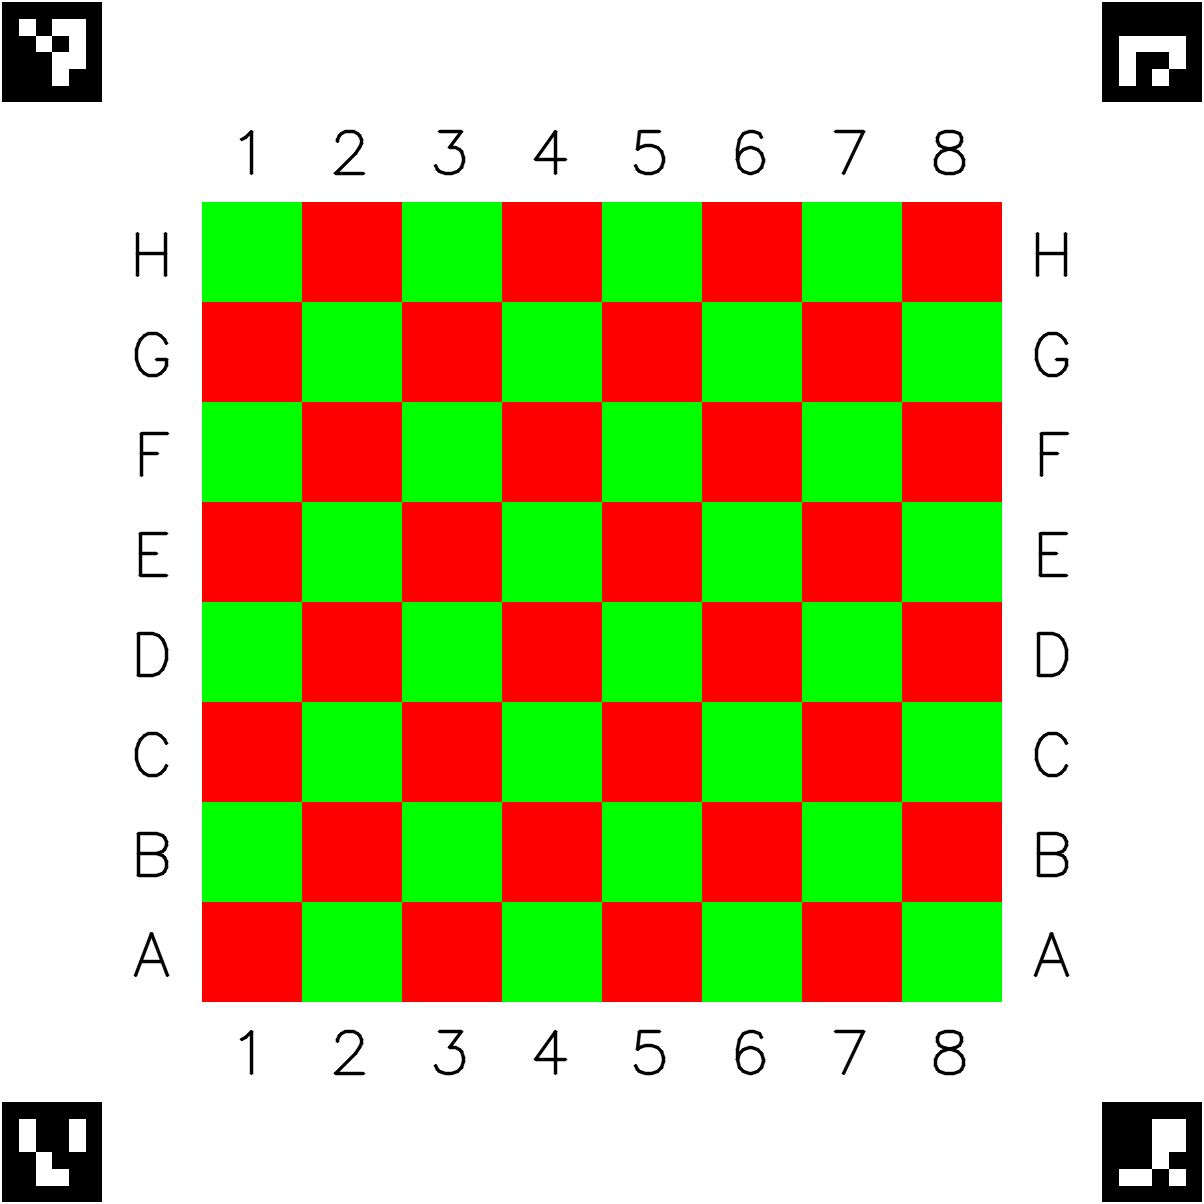
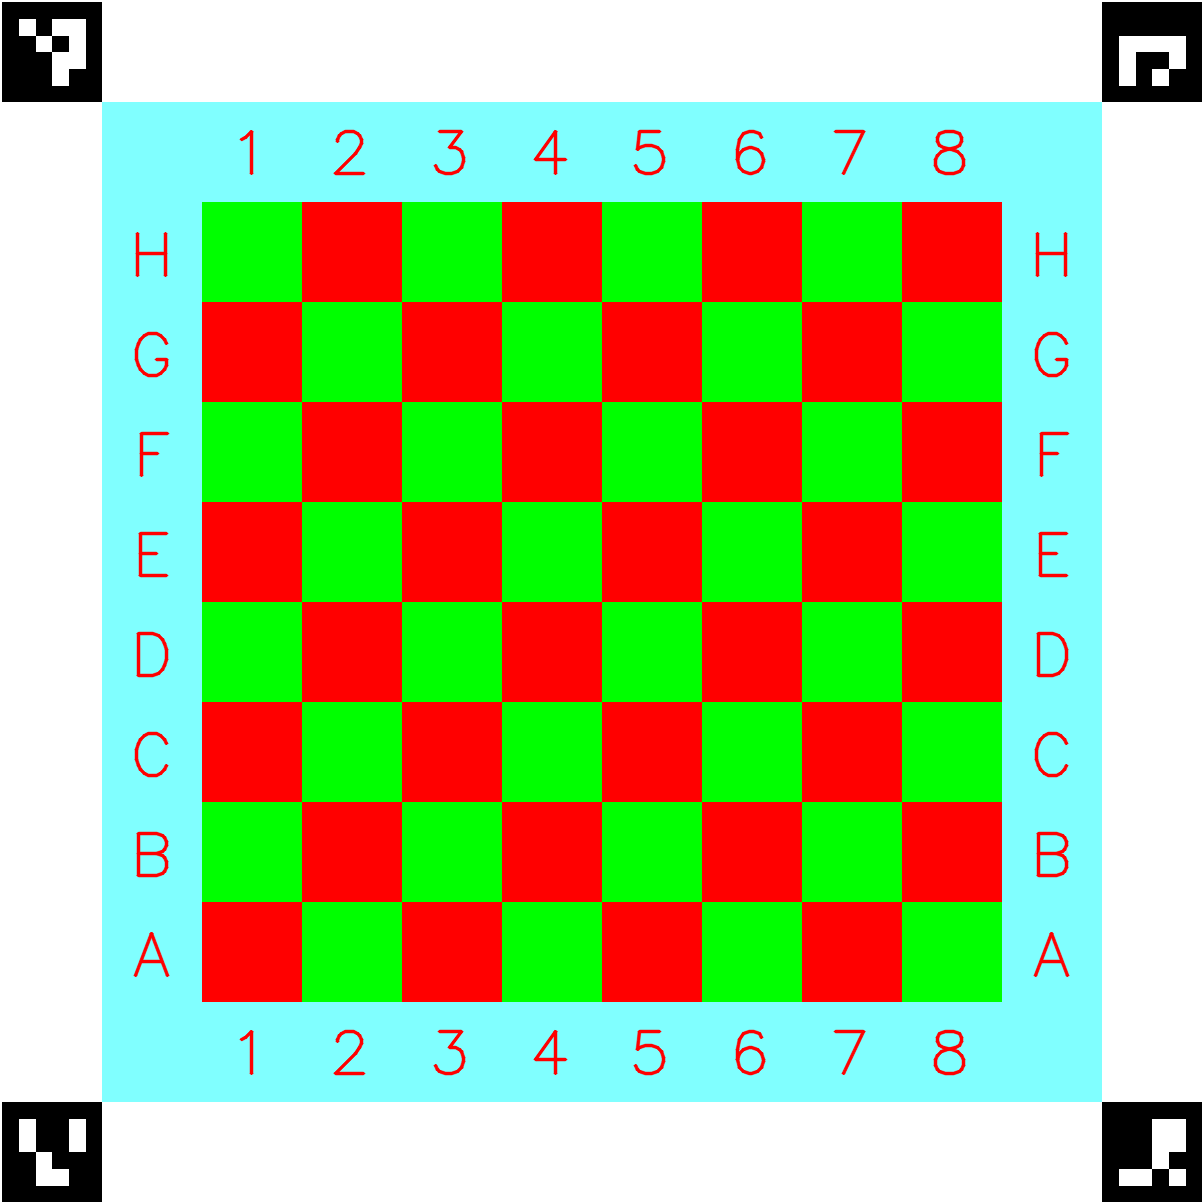
add background color for labels on chessboard
this makes it easier to separate the white pieces from the background.

Changed region(s): [[0.0615, 0.0615, 0.9219, 0.9219]]

diff --git a/board-generator/src/main.rs b/board-generator/src/main.rs
@@ -1,15 +1,18 @@
+use GeneratorError::{InvalidConfig, OpenCVError};
 use clap::Parser;
 use opencv::{
-    core::{Point2i, Rect2i, Scalar, CV_8UC3},
+    core::Size,
+    core::{CV_8UC3, Point2i, Rect2i, Scalar},
     highgui,
     imgcodecs::imwrite_def,
-    imgproc::{cvt_color_def, get_text_size, put_text, COLOR_GRAY2BGR, FONT_HERSHEY_SIMPLEX, LINE_AA},
+    imgproc::{
+        COLOR_GRAY2BGR, FONT_HERSHEY_SIMPLEX, INTER_LINEAR, LINE_AA, cvt_color_def, get_text_size,
+        put_text, resize,
+    },
     objdetect::PredefinedDictionaryType::DICT_4X4_50,
     prelude::*,
 };
 use std::fmt::{Display, Formatter};
-use GeneratorError::{InvalidConfig, OpenCVError};
-
 
 #[derive(Debug)]
 pub enum GeneratorError {
@@ -26,26 +29,29 @@ impl From<opencv::Error> for GeneratorError {
 impl Display for GeneratorError {
     fn fmt(&self, f: &mut Formatter<'_>) -> std::fmt::Result {
         match self {
-            OpenCVError(_) => writeln!(f, "OpenCV internal error"),
+            OpenCVError(_) => write!(f, "OpenCV internal error"),
             InvalidConfig => write!(f, "Invalid configuration specified"),
         }
     }
 }
 
-impl std::error::Error for GeneratorError {}
+impl std::error::Error for GeneratorError {
+    fn source(&self) -> Option<&(dyn std::error::Error + 'static)> {
+        match self {
+            OpenCVError(err) => Some(err),
+            _ => None,
+        }
+    }
+}
 
 pub type Result<T> = std::result::Result<T, GeneratorError>;
 
 const COLOR_WHITE: Scalar = Scalar::new(255.0, 255.0, 255.0, 0.0);
 const COLOR_RED: Scalar = Scalar::new(0.0, 0.0, 255.0, 0.0);
 const COLOR_GREEN: Scalar = Scalar::new(0.0, 255.0, 0.0, 0.0);
+const COLOR_ELECTRIC_BLUE: Scalar = Scalar::new(255.0, 255.0, 128.0, 0.0);
 
-
-fn draw_aruco_marker<M>(
-    marker_id: i32,
-    img_view: &mut M,
-    config: &Config,
-) -> Result<()>
+fn draw_aruco_marker<M>(marker_id: i32, img_view: &mut M, config: &Config) -> Result<()>
 where
     M: MatTrait + opencv::core::ToOutputArray + opencv::core::ToInputArray,
 {
@@ -75,11 +81,7 @@ where
     Ok(())
 }
 
-
-fn draw_aruco_markers<M>(
-    image: &mut M,
-    config: &Config,
-) -> Result<()>
+fn draw_aruco_markers<M>(image: &mut M, config: &Config) -> Result<()>
 where
     M: MatTrait + opencv::core::ToOutputArray + opencv::core::ToInputArray,
 {
@@ -105,7 +107,9 @@ where
     draw_aruco_marker(
         1,
         &mut image.roi_mut(Rect2i::new(
-            config.image_edge_length_in_px() - marker_edge_length_in_px - distance_from_image_edge_in_px,
+            config.image_edge_length_in_px()
+                - marker_edge_length_in_px
+                - distance_from_image_edge_in_px,
             distance_from_image_edge_in_px,
             marker_edge_length_in_px,
             marker_edge_length_in_px,
@@ -116,8 +120,12 @@ where
     draw_aruco_marker(
         2,
         &mut image.roi_mut(Rect2i::new(
-            config.image_edge_length_in_px() - marker_edge_length_in_px - distance_from_image_edge_in_px,
-            config.image_edge_length_in_px() - marker_edge_length_in_px - distance_from_image_edge_in_px,
+            config.image_edge_length_in_px()
+                - marker_edge_length_in_px
+                - distance_from_image_edge_in_px,
+            config.image_edge_length_in_px()
+                - marker_edge_length_in_px
+                - distance_from_image_edge_in_px,
             marker_edge_length_in_px,
             marker_edge_length_in_px,
         ))?,
@@ -128,7 +136,9 @@ where
         3,
         &mut image.roi_mut(Rect2i::new(
             distance_from_image_edge_in_px,
-            config.image_edge_length_in_px() - marker_edge_length_in_px - distance_from_image_edge_in_px,
+            config.image_edge_length_in_px()
+                - marker_edge_length_in_px
+                - distance_from_image_edge_in_px,
             marker_edge_length_in_px,
             marker_edge_length_in_px,
         ))?,
@@ -138,11 +148,7 @@ where
     Ok(())
 }
 
-fn draw_labels_vertically<M>(
-    img: &mut M,
-    config: &Config,
-    column_center: i32,
-) -> Result<()>
+fn draw_labels_vertically<M>(img: &mut M, config: &Config, column_center: i32) -> Result<()>
 where
     M: MatTrait + opencv::core::ToInputOutputArray,
 {
@@ -151,7 +157,7 @@ where
     let thickness = 2;
 
     for row in 0..config.num_fields_per_line as i32 {
-        let text = char::from('A' as u8 + row as u8).to_string();
+        let text = char::from(b'A' + row as u8).to_string();
         let text = text.as_str();
         let mut baseline = 0;
         let text_size = get_text_size(text, font_face, font_scale, thickness, &mut baseline)?;
@@ -168,7 +174,7 @@ where
             ),
             font_face,
             font_scale,
-            Scalar::all(0.0),
+            COLOR_RED,
             thickness,
             LINE_AA,
             false,
@@ -178,11 +184,7 @@ where
     Ok(())
 }
 
-fn draw_labels_horizontally<M>(
-    img: &mut M,
-    config: &Config,
-    row_bottom: i32,
-) -> Result<()>
+fn draw_labels_horizontally<M>(img: &mut M, config: &Config, row_bottom: i32) -> Result<()>
 where
     M: MatTrait + opencv::core::ToInputOutputArray,
 {
@@ -191,7 +193,7 @@ where
     let thickness = 2;
 
     for column in 0..config.num_fields_per_line as i32 {
-        let text = char::from('1' as u8 + column as u8).to_string();
+        let text = char::from(b'1' + column as u8).to_string();
         let text = text.as_str();
         let mut baseline = 0;
         let text_size = get_text_size(text, font_face, font_scale, thickness, &mut baseline)?;
@@ -202,12 +204,12 @@ where
                 2 * config.field_edge_length_in_px as i32
                     + (column * config.field_edge_length_in_px as i32)
                     + config.field_edge_length_in_px as i32 / 2
-                - text_size.width / 2,
+                    - text_size.width / 2,
                 row_bottom + text_size.height / 2,
             ),
             font_face,
             font_scale,
-            Scalar::all(0.0),
+            COLOR_RED,
             thickness,
             LINE_AA,
             false,
@@ -217,10 +219,41 @@ where
     Ok(())
 }
 
-fn draw_labels<M>(
-    img: &mut M,
-    config: &Config,
-) -> Result<()>
+fn draw_label_background<M>(img: &mut M, config: &Config) -> Result<()>
+where
+    M: MatTrait + opencv::core::ToInputOutputArray,
+{
+    assert_eq!(img.size()?.height, img.size()?.width);
+    let l = img.size()?.height;
+
+    let label_background_color = &COLOR_ELECTRIC_BLUE;
+    let field_edge_length_in_px = config.field_edge_length_in_px as i32;
+    // left
+    let mut roi = img.roi_mut(Rect2i::new(0, 0, field_edge_length_in_px, l))?;
+    roi.set_to_def(label_background_color)?;
+    // right
+    let mut roi = img.roi_mut(Rect2i::new(
+        l - field_edge_length_in_px,
+        0,
+        field_edge_length_in_px,
+        l,
+    ))?;
+    roi.set_to_def(label_background_color)?;
+    // top
+    let mut roi = img.roi_mut(Rect2i::new(0, 0, l, field_edge_length_in_px))?;
+    roi.set_to_def(label_background_color)?;
+    // bottom
+    let mut roi = img.roi_mut(Rect2i::new(
+        0,
+        l - field_edge_length_in_px,
+        l,
+        field_edge_length_in_px,
+    ))?;
+    roi.set_to_def(label_background_color)?;
+    Ok(())
+}
+
+fn draw_labels<M>(img: &mut M, config: &Config) -> Result<()>
 where
     M: MatTrait + opencv::core::ToInputOutputArray,
 {
@@ -228,28 +261,38 @@ where
     draw_labels_vertically(
         img,
         config,
-        config.distance_from_image_edge_in_px as i32 + config.field_edge_length_in_px as i32 + config.field_edge_length_in_px as i32 / 2,
+        config.distance_from_image_edge_in_px as i32
+            + config.field_edge_length_in_px as i32
+            + config.field_edge_length_in_px as i32 / 2,
     )?;
 
     // right
     draw_labels_vertically(
         img,
         config,
-        config.image_edge_length_in_px() - config.distance_from_image_edge_in_px as i32 - config.field_edge_length_in_px as i32 - config.field_edge_length_in_px as i32 / 2,
+        config.image_edge_length_in_px()
+            - config.distance_from_image_edge_in_px as i32
+            - config.field_edge_length_in_px as i32
+            - config.field_edge_length_in_px as i32 / 2,
     )?;
 
     // top
     draw_labels_horizontally(
         img,
         config,
-        config.distance_from_image_edge_in_px as i32 + config.field_edge_length_in_px as i32 + config.field_edge_length_in_px as i32 / 2,
+        config.distance_from_image_edge_in_px as i32
+            + config.field_edge_length_in_px as i32
+            + config.field_edge_length_in_px as i32 / 2,
     )?;
 
     // bottom
     draw_labels_horizontally(
         img,
         config,
-        config.image_edge_length_in_px() - config.distance_from_image_edge_in_px as i32 - config.field_edge_length_in_px as i32 - config.field_edge_length_in_px as i32 / 2,
+        config.image_edge_length_in_px()
+            - config.distance_from_image_edge_in_px as i32
+            - config.field_edge_length_in_px as i32
+            - config.field_edge_length_in_px as i32 / 2,
     )?;
 
     Ok(())
@@ -266,7 +309,8 @@ where
     let mut field_type_a = true;
 
     if img_view.size()?.width != num_fields * field_edge_length_in_px
-        || img_view.size()?.height != num_fields * field_edge_length_in_px {
+        || img_view.size()?.height != num_fields * field_edge_length_in_px
+    {
         panic!(
             "invalid image view, expected {}✕{} but got {}✕{}",
             num_fields * field_edge_length_in_px,
@@ -278,11 +322,7 @@ where
 
     for row in 0..num_fields {
         for col in 0..num_fields {
-            let color = if field_type_a {
-                COLOR_GREEN
-            } else {
-                COLOR_RED
-            };
+            let color = if field_type_a { COLOR_GREEN } else { COLOR_RED };
 
             let mut roi = img_view.roi_mut(Rect2i::new(
                 row * field_edge_length_in_px,
@@ -316,23 +356,29 @@ pub fn generate_board(config: &Config) -> Result<Mat> {
 
     draw_chessboard(
         &mut image.roi_mut(Rect2i::new(
-            config.distance_from_image_edge_in_px as i32 + 2 * config.field_edge_length_in_px as i32,
-            config.distance_from_image_edge_in_px as i32 + 2 * config.field_edge_length_in_px as i32,
+            config.distance_from_image_edge_in_px as i32
+                + 2 * config.field_edge_length_in_px as i32,
+            config.distance_from_image_edge_in_px as i32
+                + 2 * config.field_edge_length_in_px as i32,
             config.chessboard_edge_length_in_px(),
             config.chessboard_edge_length_in_px(),
         ))?,
         config,
     )?;
 
-    draw_labels(
-        &mut image,
+    draw_label_background(
+        &mut image.roi_mut(Rect2i::new(
+            config.distance_from_image_edge_in_px as i32 + config.field_edge_length_in_px as i32,
+            config.distance_from_image_edge_in_px as i32 + config.field_edge_length_in_px as i32,
+            config.chessboard_edge_length_in_px() + 2 * config.field_edge_length_in_px as i32,
+            config.chessboard_edge_length_in_px() + 2 * config.field_edge_length_in_px as i32,
+        ))?,
         config,
     )?;
 
-    draw_aruco_markers(
-        &mut image,
-        config,
-    )?;
+    draw_labels(&mut image, config)?;
+
+    draw_aruco_markers(&mut image, config)?;
 
     Ok(image)
 }
@@ -369,17 +415,30 @@ impl Config {
 fn main() -> Result<()> {
     let config = Config::parse();
 
-    println!("Generating {}✕{} board with {}px wide fields", config.num_fields_per_line, config.num_fields_per_line, config.field_edge_length_in_px);
+    println!(
+        "Generating {}✕{} board with {}px wide fields",
+        config.num_fields_per_line, config.num_fields_per_line, config.field_edge_length_in_px
+    );
 
     let image = generate_board(&config)?;
 
-    highgui::imshow("Board", &image)?;
-    highgui::wait_key_def()?;
+    let mut image_out = Mat::default();
+    resize(
+        &image,
+        &mut image_out,
+        Size::default(),
+        0.5,
+        0.5,
+        INTER_LINEAR,
+    )?;
+    highgui::imshow("Board", &image_out)?;
+    let key = highgui::wait_key_def()?;
 
-    if let Some(output_file) = config.output_file {
-        imwrite_def(output_file.to_str().unwrap(), &image)?;
+    if key == 's' as i32 {
+        if let Some(output_file) = config.output_file {
+            imwrite_def(output_file.to_str().unwrap(), &image)?;
+        }
     }
-
 
     Ok(())
 }
